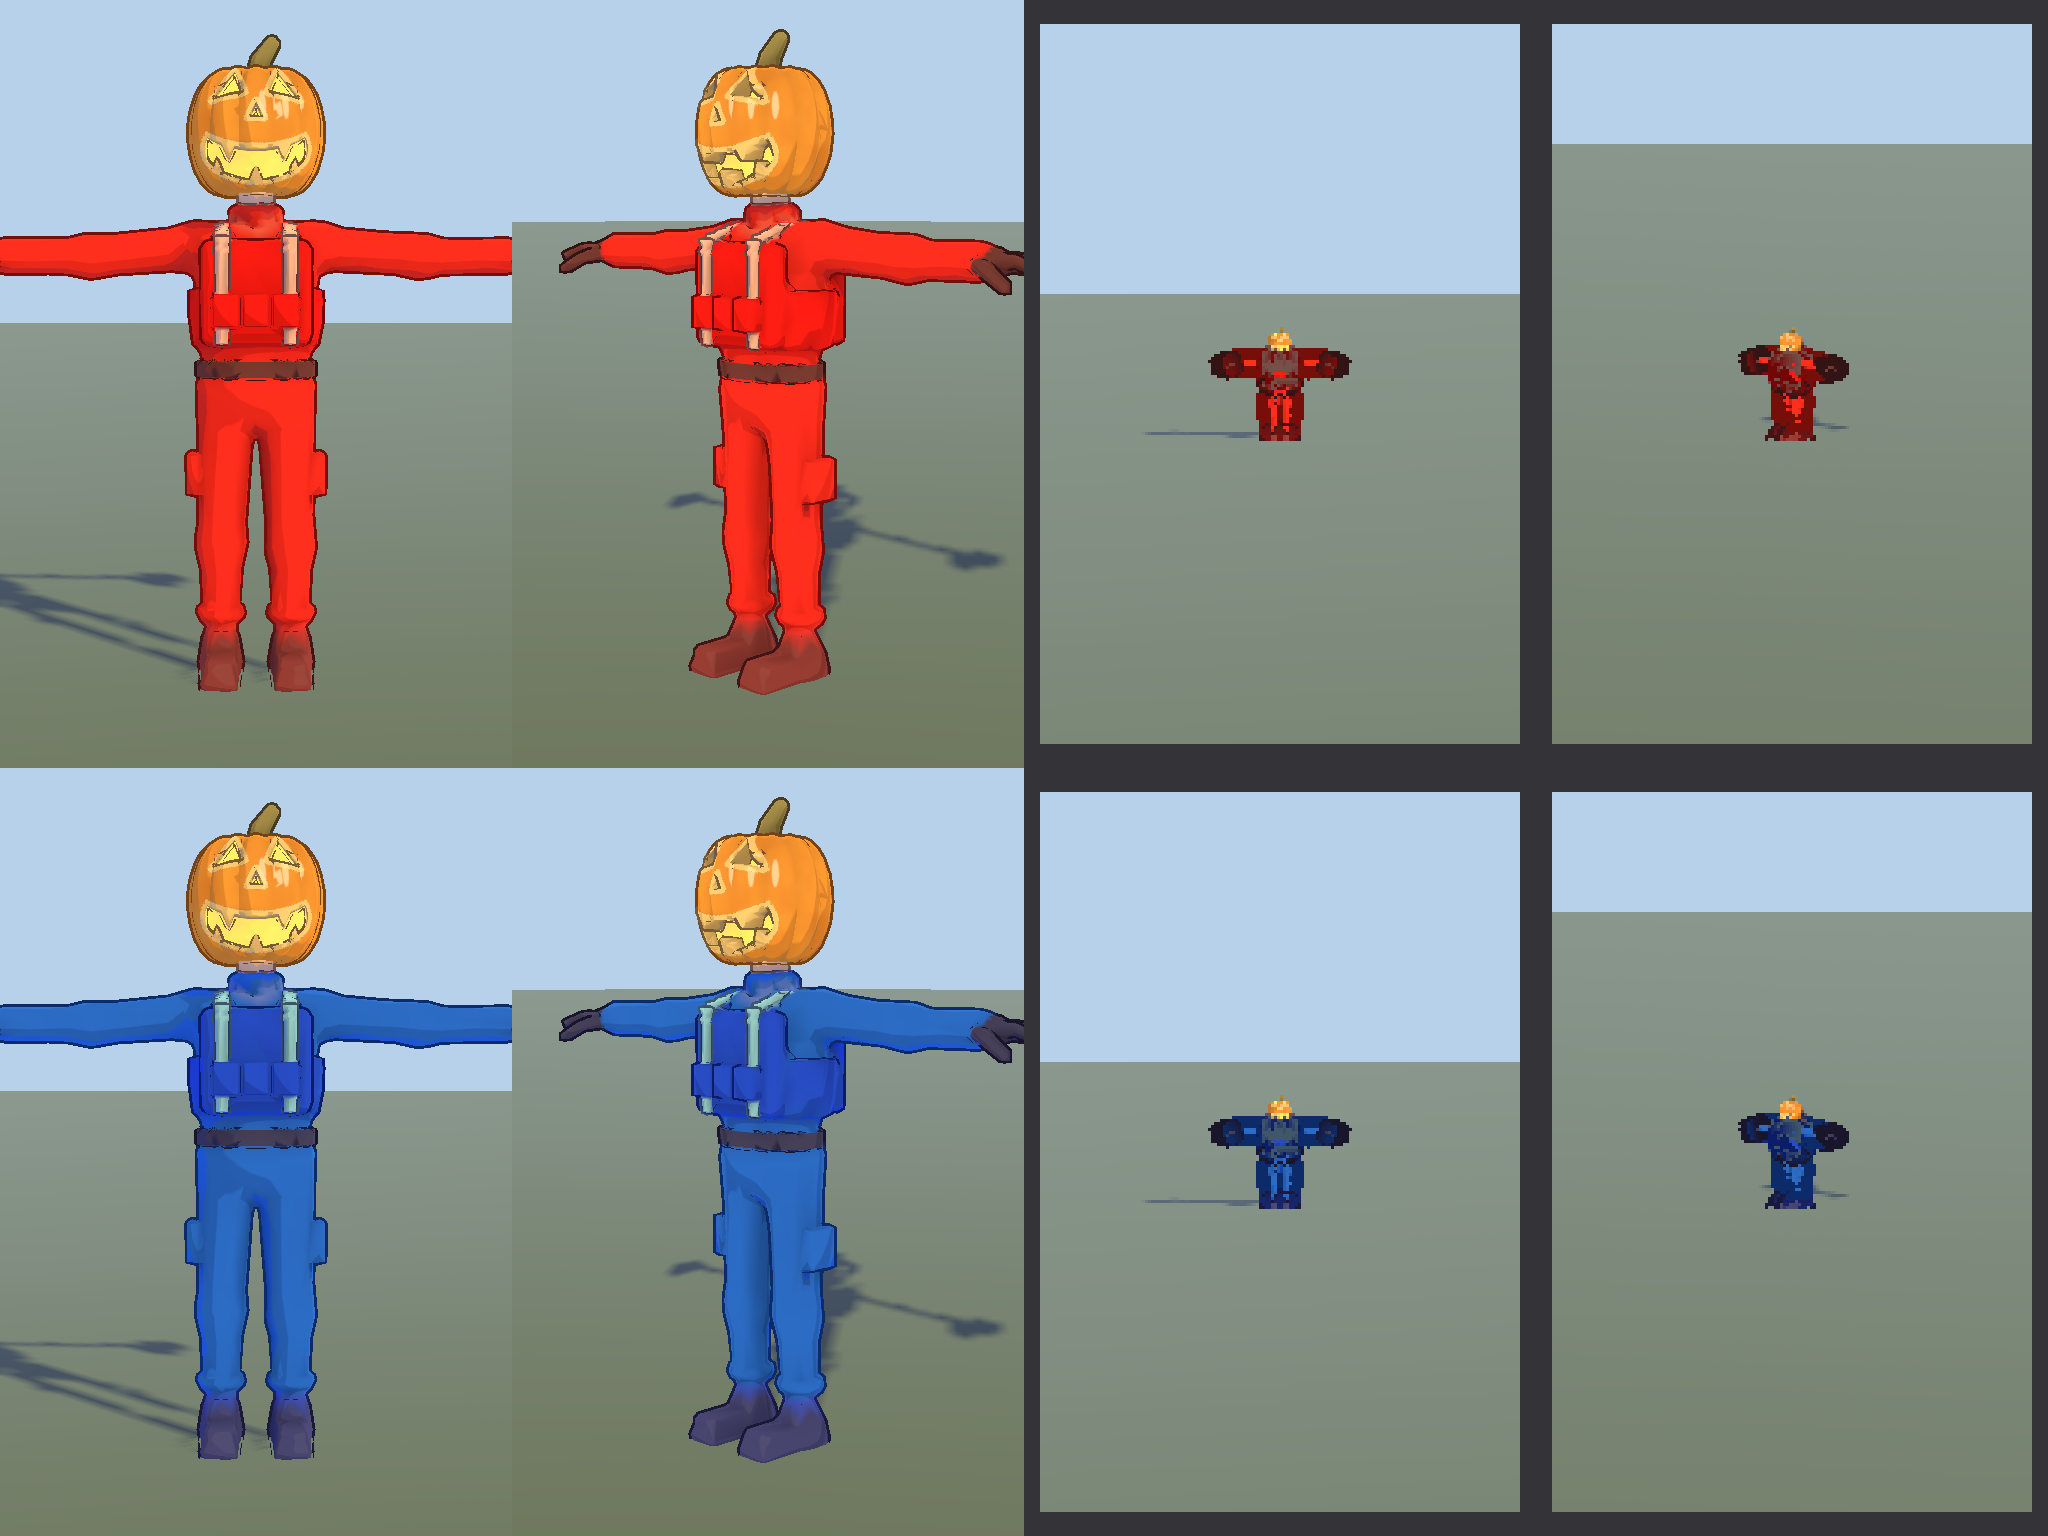
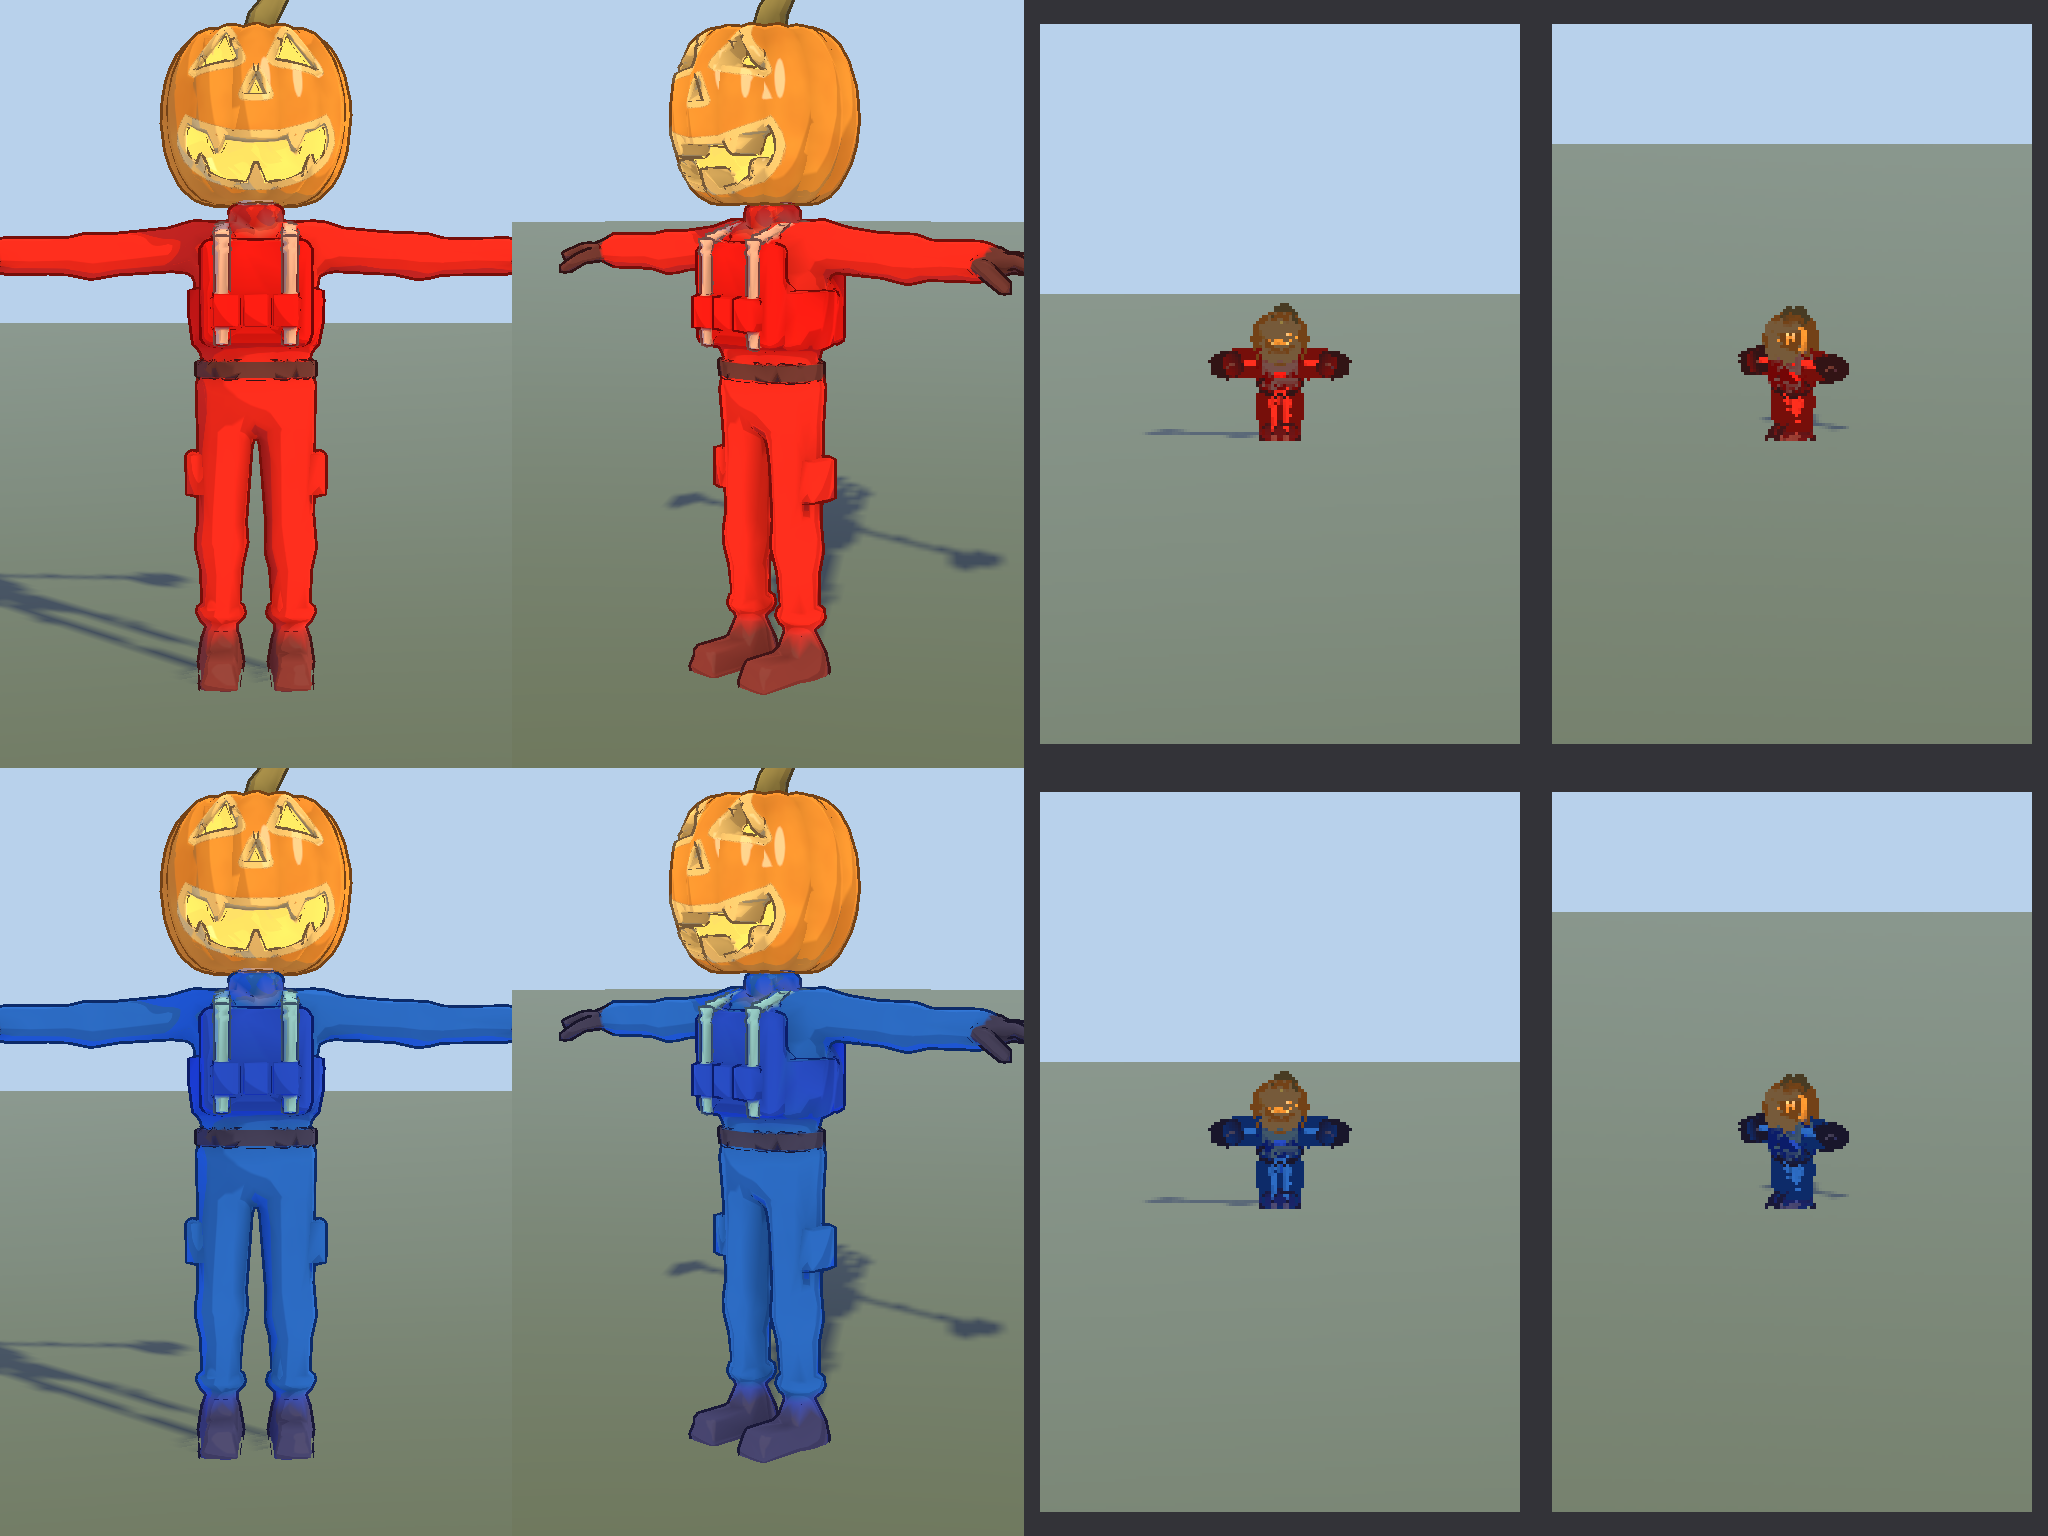
Ticket 45, phase 2: the 12-head capture sheet (Media/heads-45: one sheet per head on red and blue bodies, front and three-quarter near and at 50 m, and the close-ups), the ticket's Status and README row; HeadsPlayTest no longer assumes Frankenstein is unbuilt (not re-run to the end: the Play run hit

diff --git a/Unity/Assets/Campaign/Editor/HeadsPlayTest.cs b/Unity/Assets/Campaign/Editor/HeadsPlayTest.cs
@@ -172,11 +172,13 @@ namespace SdfCampaign.Editor
                     var menu = UnityEngine.Object.FindAnyObjectByType<GuiSettingsMenu>();
                     Expect(menu != null && menu.head != null, "the settings menu has the head row");
                     Expect(menu.head.options.Length == 2, "two heads in the cycle");
-                    StringEndsWith(menu.head.options[1], "(placeholder)");
-                    Expect(menu.headPreview != null && menu.headPreview.Worn == "pumpkin", "the preview wears the pumpkin");
-                    menu.head.Set(menu.head.index + 1, true);
+                    // Ticket 45 builds the heads one pair at a time: a head without its model says so, a real one does not
+                    if (!MonsterHeads.ById("frankenstein").Value.Built)
+                        StringEndsWith(menu.head.options[1], "(placeholder)");
+                    Expect(menu.headPreview != null && menu.headPreview.Worn == HeadStandIn.Of(loop.CurrentHead), "the preview wears the current head (the stand-in while it is unbuilt)");
+                    menu.head.Set(Array.FindIndex(menu.head.options, o => o.StartsWith("Frankenstein")), true);
                     Expect(loop.CurrentHead == "frankenstein", "the arrow picks Frankenstein");
-                    Expect(menu.headPreview.Worn == "pumpkin", "its preview shows the stand-in");
+                    Expect(menu.headPreview.Worn == HeadStandIn.Of("frankenstein"), "its preview shows the head (the stand-in while it is unbuilt)");
                     var dir = Path.GetFullPath(Path.Combine(Application.dataPath, "../../Media/heads-47"));
                     Directory.CreateDirectory(dir);
                     SavePreview(menu.headPreview.GetComponent<UnityEngine.UI.RawImage>().texture as RenderTexture, Path.Combine(dir, "settings-head-preview.png"));

diff --git a/tickets/45-monster-heads.md b/tickets/45-monster-heads.md
@@ -72,6 +72,18 @@ included:**
   underside at about 1.525 m, not 1.565). Don't move the socket, which 43's tests and 44's animation use. Check that the collar does
   not poke through the head's underside, and that the Yeti's icicles still clear the chest.
 
+**Phase 2 done (all 12 heads built); the user's visual review of the 10 new heads (Vampire, Leprechaun, Swamp, Cyclops, Cthulhu, Alien, Mummy, Werewolf, Frankenstein, Santa) is pending.** Phase 1 (the Yeti and the Jack-o'-Lantern, approved) is described below as it was; the review's changes are applied as follows.
+
+Phase 2:
+- **Normalized size**: target = 1.2x the mean of phase 1's tight fits (radii 0.290 x 0.281 x 0.295 m, volume 0.1048 m3; `HeadSize`). Each head has one uniform scale in its `content/parts/<id>_head.sdf` (a `Translate`/`Scale` pair at the top, written by `tools/normalize-head.py`, which also puts the underside at y=-0.29, 1.525 m, and sets the model's Detail to follow the scale). Scales and fits (off = the worst of volume and the three radii): Yeti 1.085 (6.1%), Pumpkin 1.388 (6.9%), Vampire 1.216 (4.8%), Leprechaun 1.173 (5.8%), Swamp 1.265 (7.7%), Cyclops 1.159 (5.9%), Cthulhu 1.245 (4.4%), Alien 1.226 (7.4%), Mummy 1.332 (6.5%), Werewolf 1.172 (7.4%), Frankenstein 1.091 (6.0%), Santa 1.114 (6.8%). All volumes 0.1046-0.1050 m3. `BuiltHeadsTests` checks every built head within 10%.
+- **Hitbox = the visible head**: `HeadFit`/`HeadFitter` (Core) fit the upright ellipsoid with the mesh's own centre of volume and second moments, brought to the mesh's volume (spikes, tufts, icicles, hats, tentacles hold little volume); no clamp, no 85% factor. Three radii and a centre, turned with the player's yaw; `HeadHit.Hit` is the test `Combat.Trace` runs for a worn head. Tests: a shot 2 cm outside misses and 2 cm inside hits on every built head along x, y and z, and the same on a synthetic shape; not driven through a live `Combat` in Play mode.
+- **4 cm lower**: the underside (lowest point within 12 cm of the neck's axis, sampled over the triangles) is at 1.525 m for the heads whose chin or main mass is the lowest part; heads with a beard tuft, a tentacle, a fang or a drip hang up to about 4 cm lower (the Leprechaun, Alien and Werewolf), and the test allows 4.5 cm. The collar does not poke through in the close-ups; the Yeti's icicles end near 1.47 m, as before; the Cthulhu's tentacles and the Alien's drool curl out in front of the chest.
+- **Head bursts (51)**: `tools/make-head-pieces.py` and the `head-pieces` mesh run were repeated for all 12 (no gore code). The 47 stand-in needed no code change; its tests and `HeadsPlayTest` no longer assume which heads are built.
+- **LOD0 triangles** (eyes included; all at 128 cells with 3 levels and `_fast`): Yeti 3868, Vampire 3196, Leprechaun 3420, Swamp 2906, Cyclops 2724, Cthulhu 2496, Alien 2870, Mummy 3220, Werewolf 2970, Pumpkin 2818, Frankenstein 2608, Santa 3336.
+- **Capture sheet**: `Media/heads-45/heads-<id>.png` for each of the 12 (red above blue; front and three-quarter near, then at 50 m through the game's lens, the middle 160 x 240 pixels scaled 3x) and `heads-closeup.png` (front, side, three-quarter, one row per head in calendar-built order). The soldier is in the T-pose. Looks (plainly): Yeti white shaggy with grey-blue face, fangs and icicles; Vampire pale face, black hair, red eyes, two long fangs, black collar lined red; Leprechaun warty green face, yellow slit eyes, ginger beard, sharp teeth, torn green top hat; Swamp brown mud with moss, reeds, green slime drips and glowing yellow eyes; Cyclops tan, one big eye under a brown brow bar, one big tusk; Cthulhu sea-green dome, two orange slit eyes, tentacles forward; Alien dark green-black, two huge black glossy eyes, antennae with yellow tips, yellow drool; Mummy round, patchy linen wraps, a black eye band; Werewolf tan-brown fur, tall ears, long snout, open jaws; Pumpkin orange with glowing carving; Frankenstein square green head, flat black hair, steel bolts; Santa white beard, glowing red nose, big red hat. Known rough spots: the Mummy's eye band cuts across the whole head (visible from the side), the Cyclops' brow reads as a bar, the Vampire's collar is open at the front, the small eye parts are coarse close up.
+
+Left: the user's look at the 10 new heads and the sheet (including readability at 50 m); a Play-mode look with the animated bodies; a burst strip of the new heads (`GoreCheck` still only runs the Yeti and the pumpkin; add ids to its `Heads` list); the web frame time.
+
 **Phase 1 done: the Yeti and the Jack-o'-Lantern are modelled, meshed, imported and on the soldiers. The user's review of them is pending; the other 10 are not started** (the Order above: look at these two for scale, neck join, readability at 50 m and budget first).
 
 What exists:

diff --git a/tickets/README.md b/tickets/README.md
@@ -52,7 +52,7 @@ ticket's Status says.
 | 42 | [Endless rotation and automatic difficulty](42-endless-rotation-and-auto-difficulty.md) | Boot straight into a Meadow match on a random team; then a random level, never one of the last 3; difficulty one step easier after a loss, harder after a win with the enemy on 0, the same otherwise, applied to the enemy side; the new save. Done in code and in the five-match play test; left: a Play-mode look at the pause credits and the end screens, the web portal run. After 41 |
 | 43 | [The body: BattleRoyale's soldier](43-soldier-body-from-battleroyale.md) | The rigging pipeline, the Synty skeleton and the soldier ported from `../BattleRoyale`, the soldier without its head, red and blue team skins, sockets for the head, weapon and flag, hit capsules. Done (`sdf mesh` makes the skinned .glb, `soldier_red`/`soldier_blue` prefabs with avatar, sockets and hit capsules, captures in `Media/soldier-43`); left: a look at the capture, web frame time with 8 animated bodies (after 44) |
 | 44 | [Body animations](44-body-animations.md) | BattleRoyale's Mixamo clips, Animator builders and `SoldierAnimator` wired to the player and bots (locomotion, jump, fire, hit); missing clips (pistol, jump, heavy weapon, roar, victory) from Mixamo by the user, with stand-ins. Done in code and tested (the death is 51's ragdoll hook, no directional clips); left: the user's Mixamo clips and a Play-mode look. After 43 |
-| 45 | [Twelve monster heads](45-monster-heads.md) | One SDF head per month (Yeti to Evil Santa) on the soldier's head socket, its own eyes and colours, glowing parts emissive, head capsules sized fairly; Yeti and Jack-o'-Lantern first. Phase 1 done (Yeti and Jack-o'-Lantern modelled, meshed, on the soldiers, the `MonsterHeads` table, fair hit shapes, capture sheet in `Media/heads-45`); the user's review is pending, then the other 10. After 43 |
+| 45 | [Twelve monster heads](45-monster-heads.md) | One SDF head per month (Yeti to Evil Santa) on the soldier's head socket, its own eyes and colours, glowing parts emissive, every head normalized to one size (within 10%), the hit shape the tight fit of the visible mesh, 4 cm lower. All 12 built (phase 2); the user's visual review of the 10 new heads is pending (sheet in `Media/heads-45`). After 43 |
 | 46 | [Monster explosions](46-monster-explosions.md) | `ExplodingMonster` with a profile per head (ice, bats, shamrocks, mud, eyeball, tentacles, acid, bandages, fur, seeds, sparks, candy canes), at every gore level. Not started. After 45 |
 | 47 | [Head unlocks and selection](47-head-unlocks-and-selection.md) | The head of the month plus every head unlocked before; each win unlocks the next head in calendar order; a ◀ head ▶ cycle in Settings; random heads on bots. Done in code (688 EditMode pass, play test and reload check pass): `HeadUnlocks`, `GameSave` version 2, Settings cycle with preview; 10 of 12 heads still show as stand-ins. After 42, 45 |
 | 48 | [The next-level countdown](48-next-level-countdown.md) | The end card counts down from 10 to the next level, win or lose; A and D (by key position) switch heads; the unlock reveal, the difficulty line, the midgame ad. Not started. After 42, 47 |
